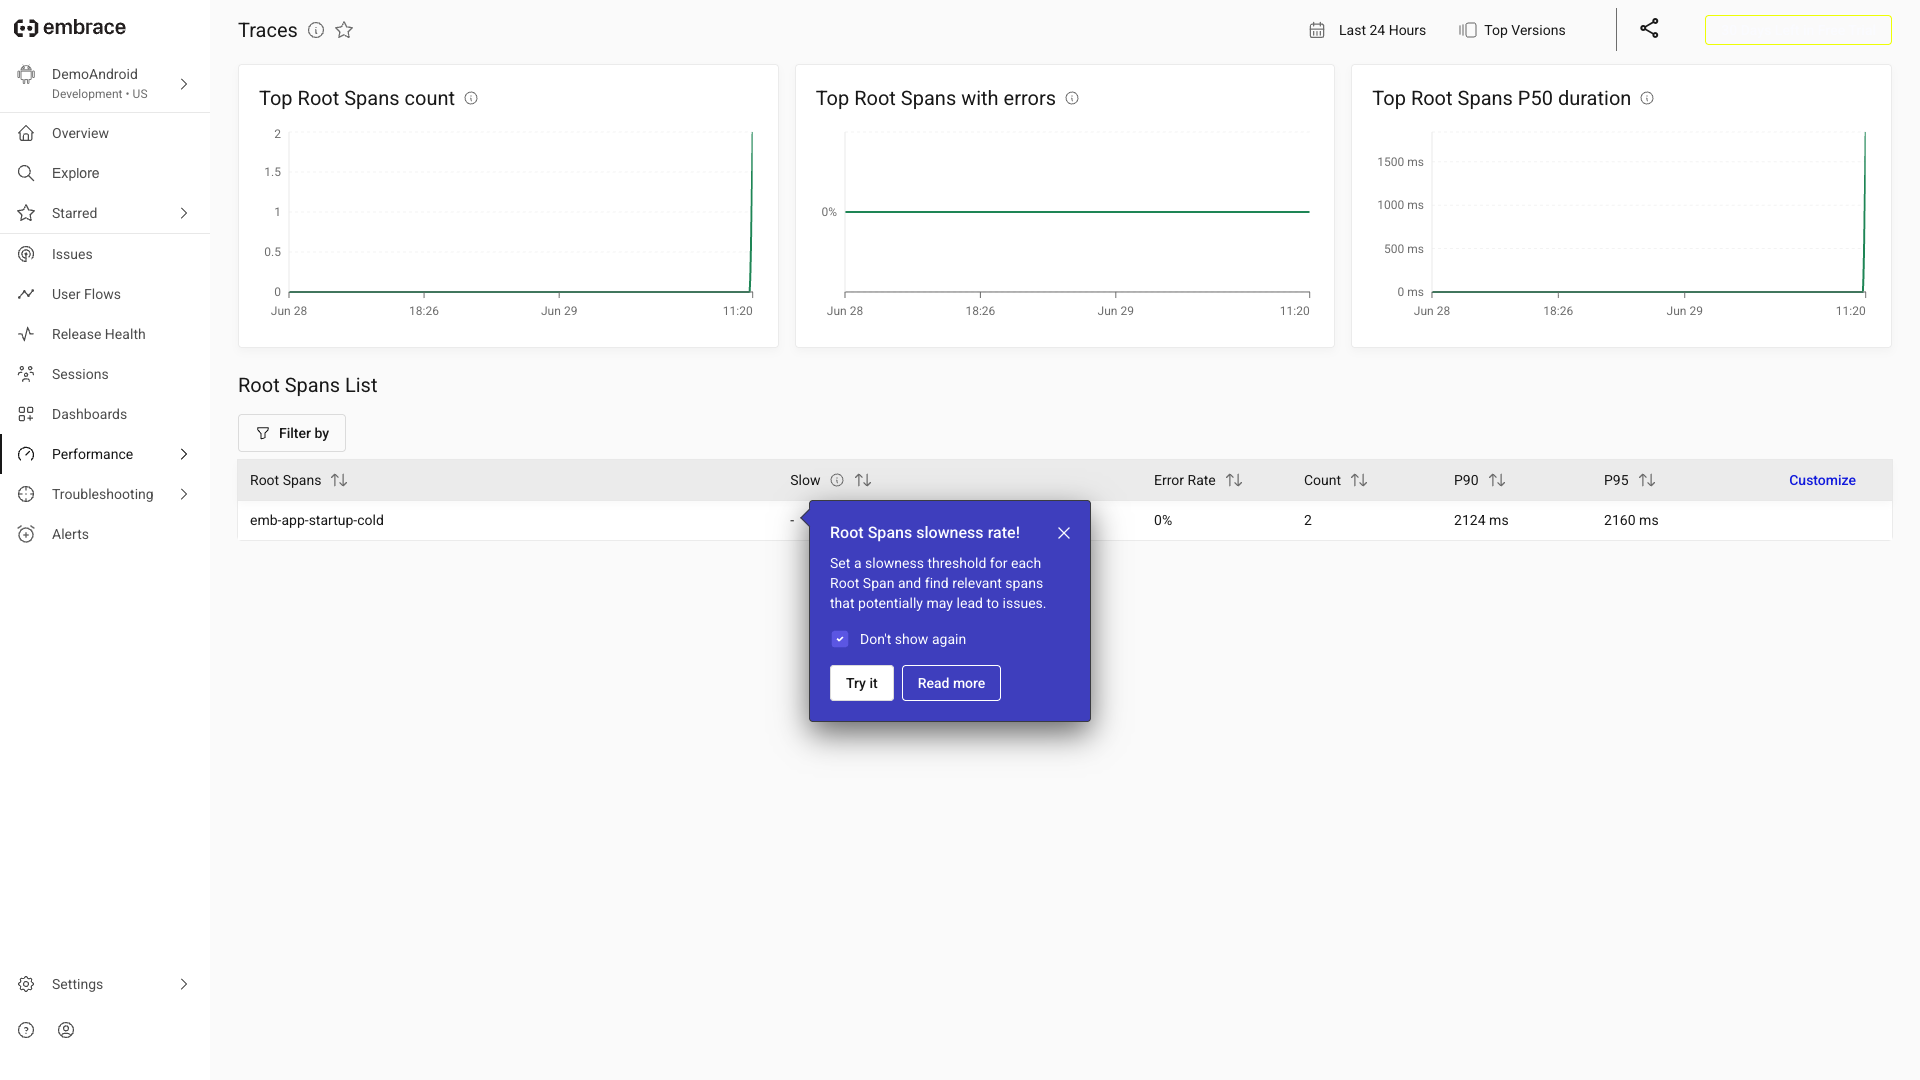
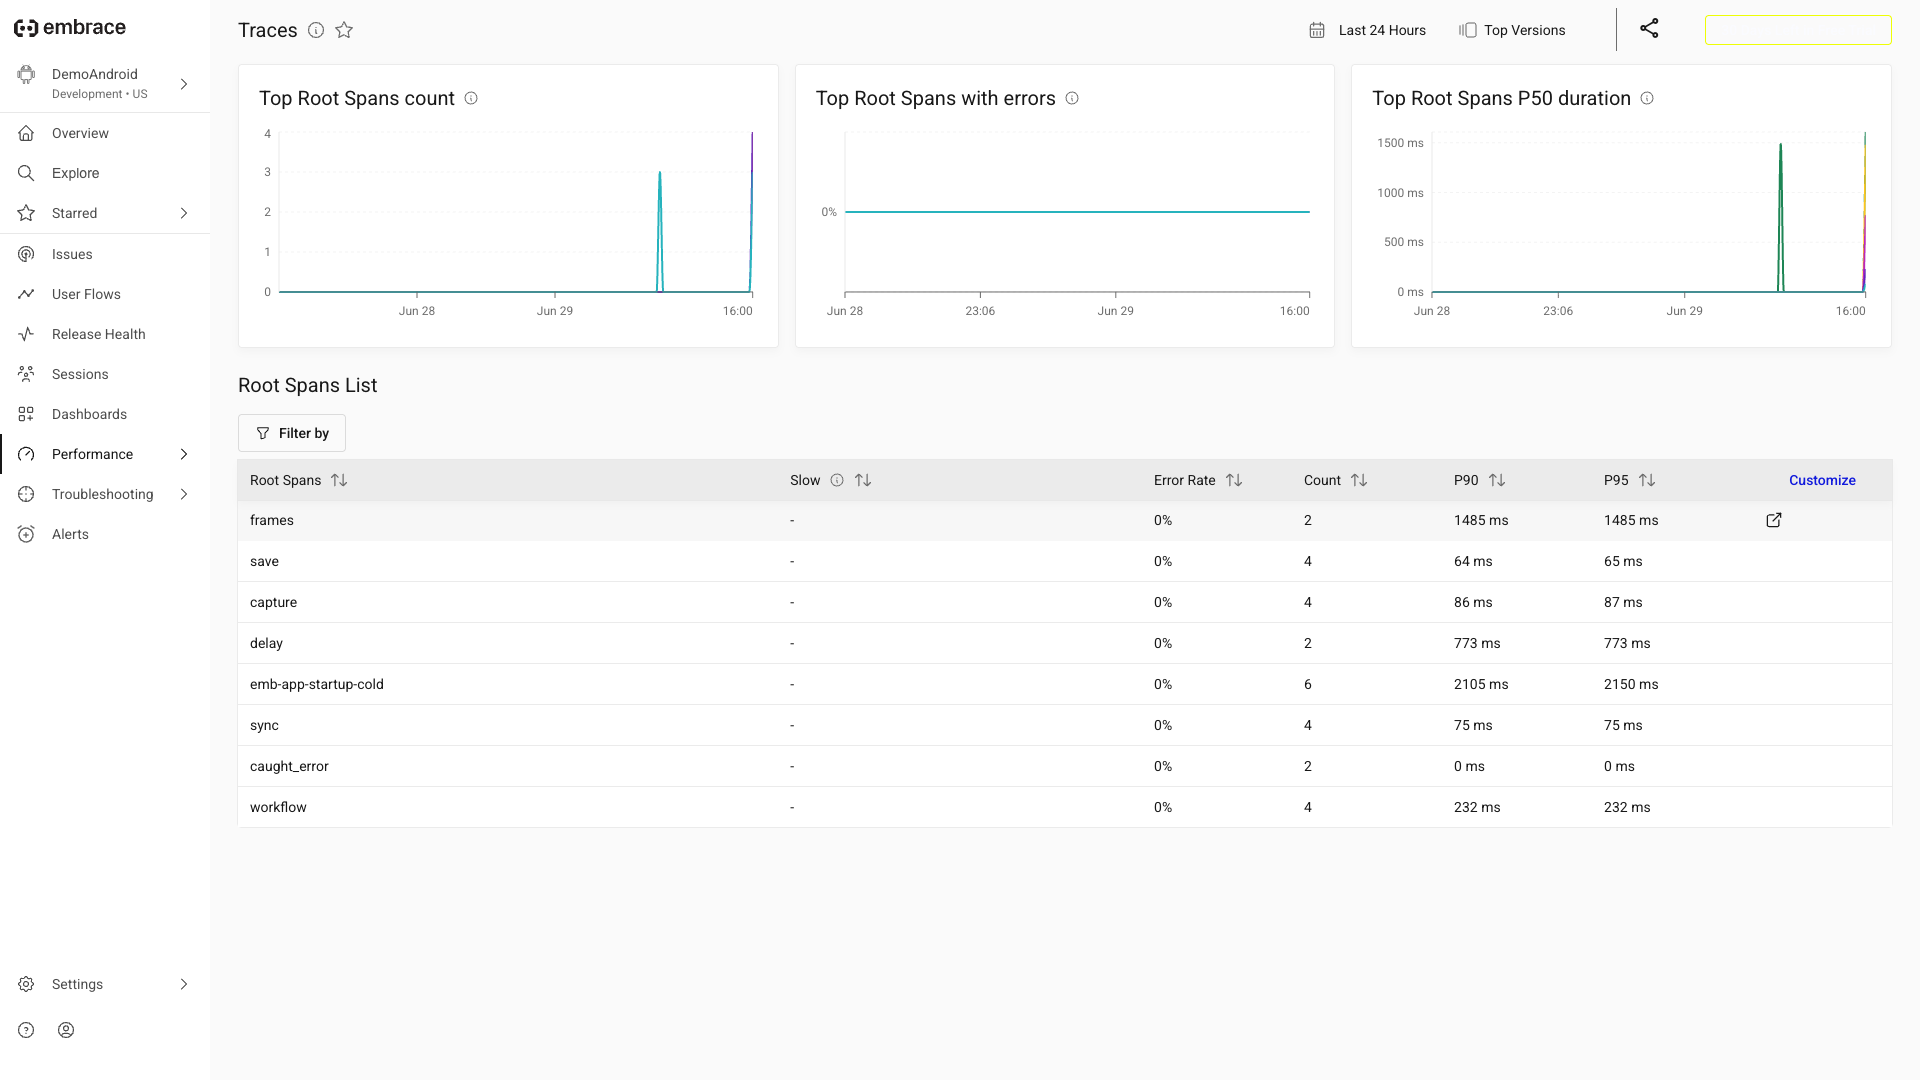
android: route custom demo spans through Embrace TracingApi (all cases on cloud)
Android previously emitted custom demo spans only via OTel-Java (→ Grafana),
so the Embrace cloud dashboard showed just native auto-capture (crash/ANR/startup).
Now the `embrace` arm ALSO records each action via
`Embrace.getInstance().recordCompletedSpan(name, startMs, endMs)` so delay /
workflow / capture / save / sync / caught_error / frames all appear under
Traces → Root Spans List on Embrace cloud — consistent with Web/iOS/Flutter.

- build.gradle.kts: ungate Embrace SDK + OTel-Kotlin deps to both arms (project is
  Kotlin 2.3.0 now, no stdlib conflict); embrace gradle PLUGIN still gated to embrace arm.
- DemoActions.kt: add embRecord() helper (no-op in otel arm, guarded by TELEMETRY_TOOL
  + try/catch); record delay/workflow(+capture/save/sync)/caught_error/frames.
- screenshots/embrace/android/traces.png: re-captured full-screen showing all cases.
- screenshots/embrace/README.md: update Android row + export-targets note.

Verified on emulator-5554 (appId 2tbxs injected at build, reverted after): 2 autofire
cycles → Root Spans List shows delay(2)/workflow(4)/capture(4)/save(4)/sync(4)/
caught_error(2)/frames(2)/emb-app-startup-cold(6). No app_id/token committed.

diff --git a/clients/android/app/src/main/java/io/embrace/demo/android/telemetry/DemoActions.kt b/clients/android/app/src/main/java/io/embrace/demo/android/telemetry/DemoActions.kt
@@ -3,6 +3,7 @@ package io.embrace.demo.android.telemetry
 import android.content.Context
 import android.os.Handler
 import android.os.Looper
+import io.embrace.demo.android.BuildConfig
 import io.opentelemetry.api.common.AttributeKey
 import io.opentelemetry.api.common.Attributes
 import io.opentelemetry.api.logs.Severity
@@ -16,19 +17,36 @@ class DemoActions(@Suppress("UNUSED_PARAMETER") ctx: Context) {
     private fun actionAttr(name: String) =
         Attributes.of(AttributeKey.stringKey("action.name"), name)
 
+    /**
+     * In the `embrace` arm, ALSO record the action as a completed Embrace span via the Embrace
+     * TracingApi so it reaches the Embrace **cloud** dashboard (Traces → Root Spans List), not only
+     * Grafana via OTel-Java. No-op in the `otel` arm (Embrace SDK not started → guarded + try/catch).
+     */
+    private fun embRecord(name: String, startMs: Long) {
+        if (BuildConfig.TELEMETRY_TOOL != "embrace") return
+        try {
+            io.embrace.android.embracesdk.Embrace.getInstance()
+                .recordCompletedSpan(name, startMs, System.currentTimeMillis())
+        } catch (_: Throwable) { /* SDK not started in this arm — ignore */ }
+    }
+
     fun delay() = bg.execute {
+        val t0 = System.currentTimeMillis()
         val s = Telemetry.newSpan("delay", Telemetry.sampleAttrs("delay"))
         s.addEvent("delay.started")
         Thread.sleep(760)
         s.addEvent("delay.completed")
         s.end()
+        embRecord("delay", t0)
         Telemetry.log("delay completed ok (760ms)", Severity.INFO, actionAttr("delay"))
     }
 
     fun workflow(forceFail: Boolean) = bg.execute {
+        val wfStart = System.currentTimeMillis()
         val parent = Telemetry.newSpan("workflow", Telemetry.sampleAttrs("workflow"))
         parent.addEvent("started")
         for ((step, ms) in listOf("capture" to 80L, "save" to 60L)) {
+            val stepStart = System.currentTimeMillis()
             val c = Telemetry.newSpan(
                 step,
                 Attributes.builder()
@@ -37,7 +55,9 @@ class DemoActions(@Suppress("UNUSED_PARAMETER") ctx: Context) {
                 parent
             )
             c.addEvent("$step.started"); Thread.sleep(ms); c.addEvent("$step.done"); c.end()
+            embRecord(step, stepStart)
         }
+        val syncStart = System.currentTimeMillis()
         val sync = Telemetry.newSpan(
             "sync",
             Attributes.of(AttributeKey.stringKey("step.name"), "sync"), parent
@@ -51,6 +71,7 @@ class DemoActions(@Suppress("UNUSED_PARAMETER") ctx: Context) {
             sync.setStatus(StatusCode.ERROR, "sync failed")
             sync.addEvent("sync.failed"); sync.end()
             parent.setStatus(StatusCode.ERROR, "workflow failed"); parent.end()
+            embRecord("sync", syncStart); embRecord("workflow", wfStart)
             Telemetry.log(
                 "workflow failed at sync (HTTP 503)", Severity.ERROR,
                 Attributes.builder().put("action.name", "workflow")
@@ -59,14 +80,17 @@ class DemoActions(@Suppress("UNUSED_PARAMETER") ctx: Context) {
         } else {
             sync.setAttribute("step.status", "ok"); sync.addEvent("sync.done"); sync.end()
             parent.end()
+            embRecord("sync", syncStart); embRecord("workflow", wfStart)
             Telemetry.log("workflow completed ok", Severity.INFO, actionAttr("workflow"))
         }
     }
 
     fun caughtError() = bg.execute {
+        val t0 = System.currentTimeMillis()
         try {
             throw IllegalStateException("EmbraceGrafanaDemo intentional handled error (action.name=caught_error)")
         } catch (e: Exception) {
+            embRecord("caught_error", t0)
             Telemetry.log(
                 "demo handled exception (action.name=caught_error): ${e.message}", Severity.ERROR,
                 Attributes.builder()
@@ -80,11 +104,13 @@ class DemoActions(@Suppress("UNUSED_PARAMETER") ctx: Context) {
 
     /** Jank the MAIN thread to exercise slow/frozen frames (E4). */
     fun frames() = main.post {
+        val t0 = System.currentTimeMillis()
         val s = Telemetry.newSpan("frames", Telemetry.sampleAttrs("frames"))
         s.addEvent("frames.jank_start")
         repeat(12) { Thread.sleep(120) }   // 12 x 120ms bursts on the UI thread
         s.addEvent("frames.jank_burst_done")
         s.end()
+        embRecord("frames", t0)
         Telemetry.log("frames jank burst done (12x120ms)", Severity.WARN, actionAttr("frames"))
     }
 

diff --git a/screenshots/embrace/README.md b/screenshots/embrace/README.md
@@ -11,7 +11,7 @@ full-screen (1920×1080) by attaching to the logged-in browser. App IDs + tokens
 |---|---|---|---|
 | **Web** (Angular 20) | DemoWeb (`ctac2`) | demo screen + action buttons | `case-index-traces` (delay/crash/caught_error/workflow by name) · `case-workflow` (capture→save→sync waterfall) · `exceptions` (crash *DemoUnhandledError*) · `web-vitals` · `overview`/`sessions`/`issues`/`network` |
 | **iOS** (Swift) | DemoIOS (`gq23k`) | sim screen + buttons | `traces` (delay/anr/frames/workflow + `emb-app-startup-warm`, `emb-…time-to-first-render`) · `exceptions` · `overview`/`sessions`/`issues` |
-| **Android** (Kotlin) | DemoAndroid (`2tbxs`) | emulator screen + buttons | `issues` (**Crash** java.lang.RuntimeException *grouped* + **ANR 100%**) · `traces` (`emb-app-startup-cold`) · `overview`/`sessions`/`exceptions` |
+| **Android** (Kotlin) | DemoAndroid (`2tbxs`) | emulator screen + buttons | `traces` (delay/workflow/capture/save/sync/caught_error/frames by name + `emb-app-startup-cold`) · `issues` (**Crash** java.lang.RuntimeException *grouped* + **ANR 100%**) · `overview`/`sessions`/`exceptions` |
 | **Flutter** | DemoFlutter (`tzb7f`) | sim screen + buttons | `traces`/`sessions`/`issues`/`overview`/`exceptions` |
 
 ## What the per-case views show
@@ -25,9 +25,13 @@ full-screen (1920×1080) by attaching to the logged-in browser. App IDs + tokens
   iOS/Android/Flutter without manual code — the value Embrace adds over plain OTel (finding F1).
 
 ## Note on the two export targets
-- **iOS / Flutter / Web** route their custom demo spans THROUGH the Embrace SDK → so those spans appear on
-  the Embrace dashboard **and** Grafana.
-- **Android** emits the custom demo spans via plain OTel-Java (→ Grafana); the Embrace Android SDK on the
-  cloud side shows its **native auto-capture** (startup, **crash grouping**, **ANR**) — see `android/issues.png`.
+- **All four clients** route their custom demo spans THROUGH the Embrace SDK → so those spans appear on the
+  Embrace dashboard **and** Grafana. On Android this is done by also recording each action via the Embrace
+  TracingApi (`Embrace.getInstance().recordCompletedSpan(name, startMs, endMs)`) in the `embrace` arm, in
+  addition to the OTel-Java span that feeds Grafana — see `android/traces.png` (delay/workflow/capture/save/
+  sync/caught_error/frames all listed). On Android these are recorded as flat root spans (one row per case)
+  rather than the nested `workflow → capture → save → sync` waterfall the web/iOS Embrace SDKs build.
+- On **mobile**, Embrace additionally adds **crash grouping + ANR detection** server-side (Android `issues.png`
+  shows both) — its strength that the Grafana self-host path does NOT have (finding F2).
 
 Grafana-side screenshots of the same telemetry: `../20_grafana_overview.png`, `../21_grafana_all_platforms.png`.